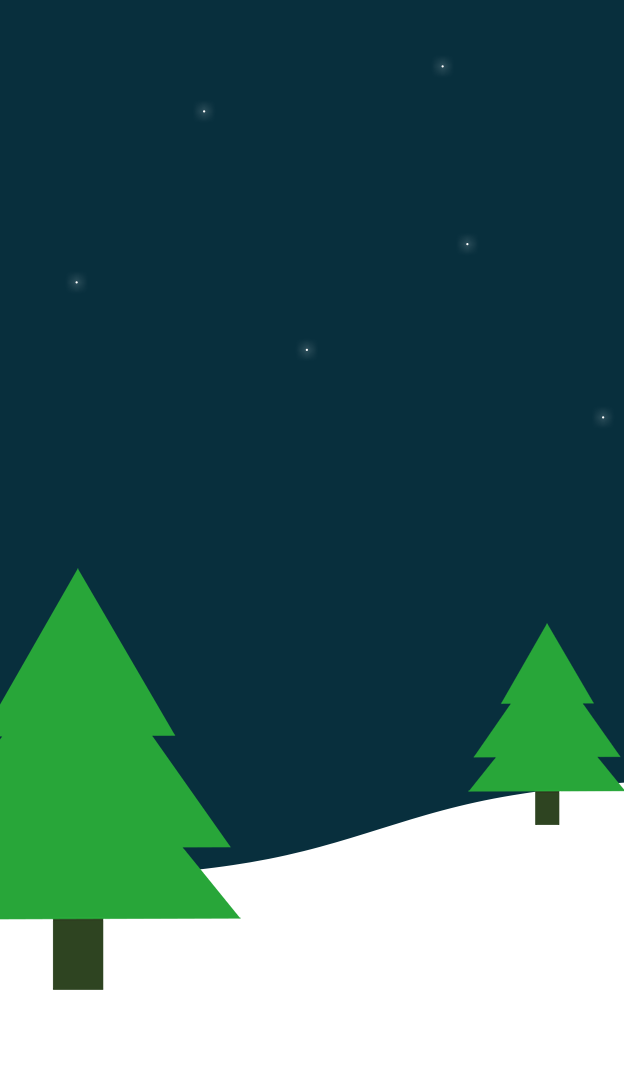
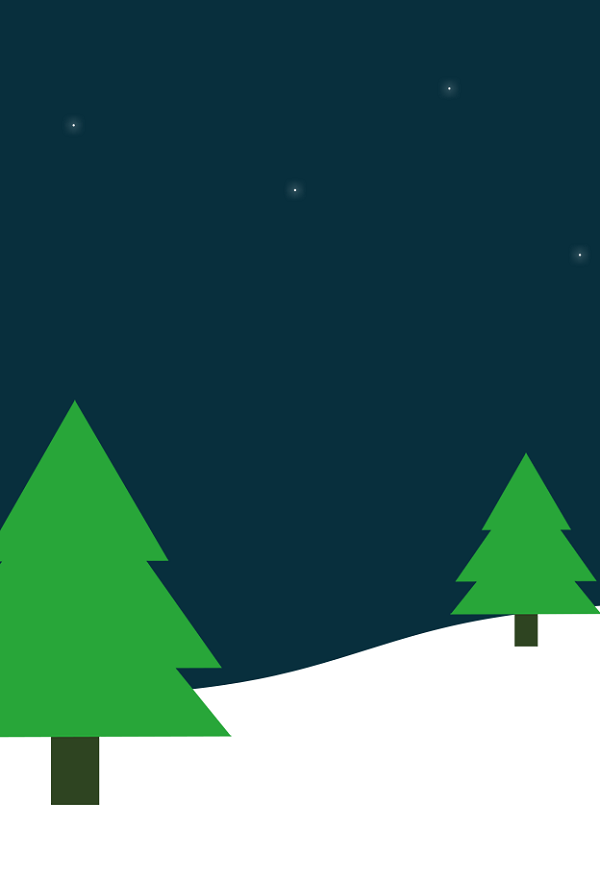
updates

Changed region(s): [[0.0, 0.4602, 1.0, 0.8591]]

diff --git a/docs/index.html b/docs/index.html
@@ -8,6 +8,7 @@
   <!-- CSS  -->
   <link rel="stylesheet" href="https://cdnjs.cloudflare.com/ajax/libs/materialize/0.98.2/css/materialize.min.css" type="text/css" rel="stylesheet" media="screen,projection">
   <link rel="stylesheet" href="../css/style.css" type="text/css" rel="stylesheet" media="screen,projection">
+  <link href="https://fonts.googleapis.com/icon?family=Material+Icons" rel="stylesheet">
   <!-- CSS  End -->
   <!-- JS  -->
   <script type="text/javascript" src="https://ajax.googleapis.com/ajax/libs/jquery/3.2.1/jquery.min.js"></script>
@@ -30,6 +31,15 @@
   </div>
     <div class="snowflakes" aria-hidden="true">
 	  <div class="snowflake">
+	  <i class="material-icons">ac_unit</i>
+	  </div>
+	  <div class="snowflake">
+	  <i class="material-icons">ac_unit</i>
+	  </div>
+	  <div class="snowflake">
+	  ❆
+	  </div>
+	  <div class="snowflake">
 	  ❄
 	  </div>
 	  <div class="snowflake">
@@ -39,16 +49,7 @@
 	  ❆
 	  </div>
 	  <div class="snowflake">
-	  ❄
-	  </div>
-	  <div class="snowflake">
-	  ❅
-	  </div>
-	  <div class="snowflake">
-	  ❆
-	  </div>
-	  <div class="snowflake">
-	  ❄
+	  <i class="material-icons">ac_unit</i>
 	  </div>
 	  <div class="snowflake">
 	  ❅

diff --git a/docs/css/style.css b/docs/css/style.css
@@ -7,7 +7,6 @@
  */
  
  body {
-  background: url('../imgs/background.png') no-repeat bottom right #082f3d; background-attachment:fixed;
   display: flex;
   min-height: 100vh;
   flex-direction: column;
@@ -21,12 +20,12 @@
 }
   
   
-@media screen and (max-width: 624px){
+@media screen and (max-width: 600px){
     body {
         background: url('../imgs/background-sm.png') no-repeat bottom right #082f3d; background-attachment:fixed;
     }
 }
-@media screen and (min-width: 625px){
+@media screen and (min-width: 601px){
     body {
         background: url('../imgs/background.png') no-repeat bottom right #082f3d; background-attachment:fixed;
     }
